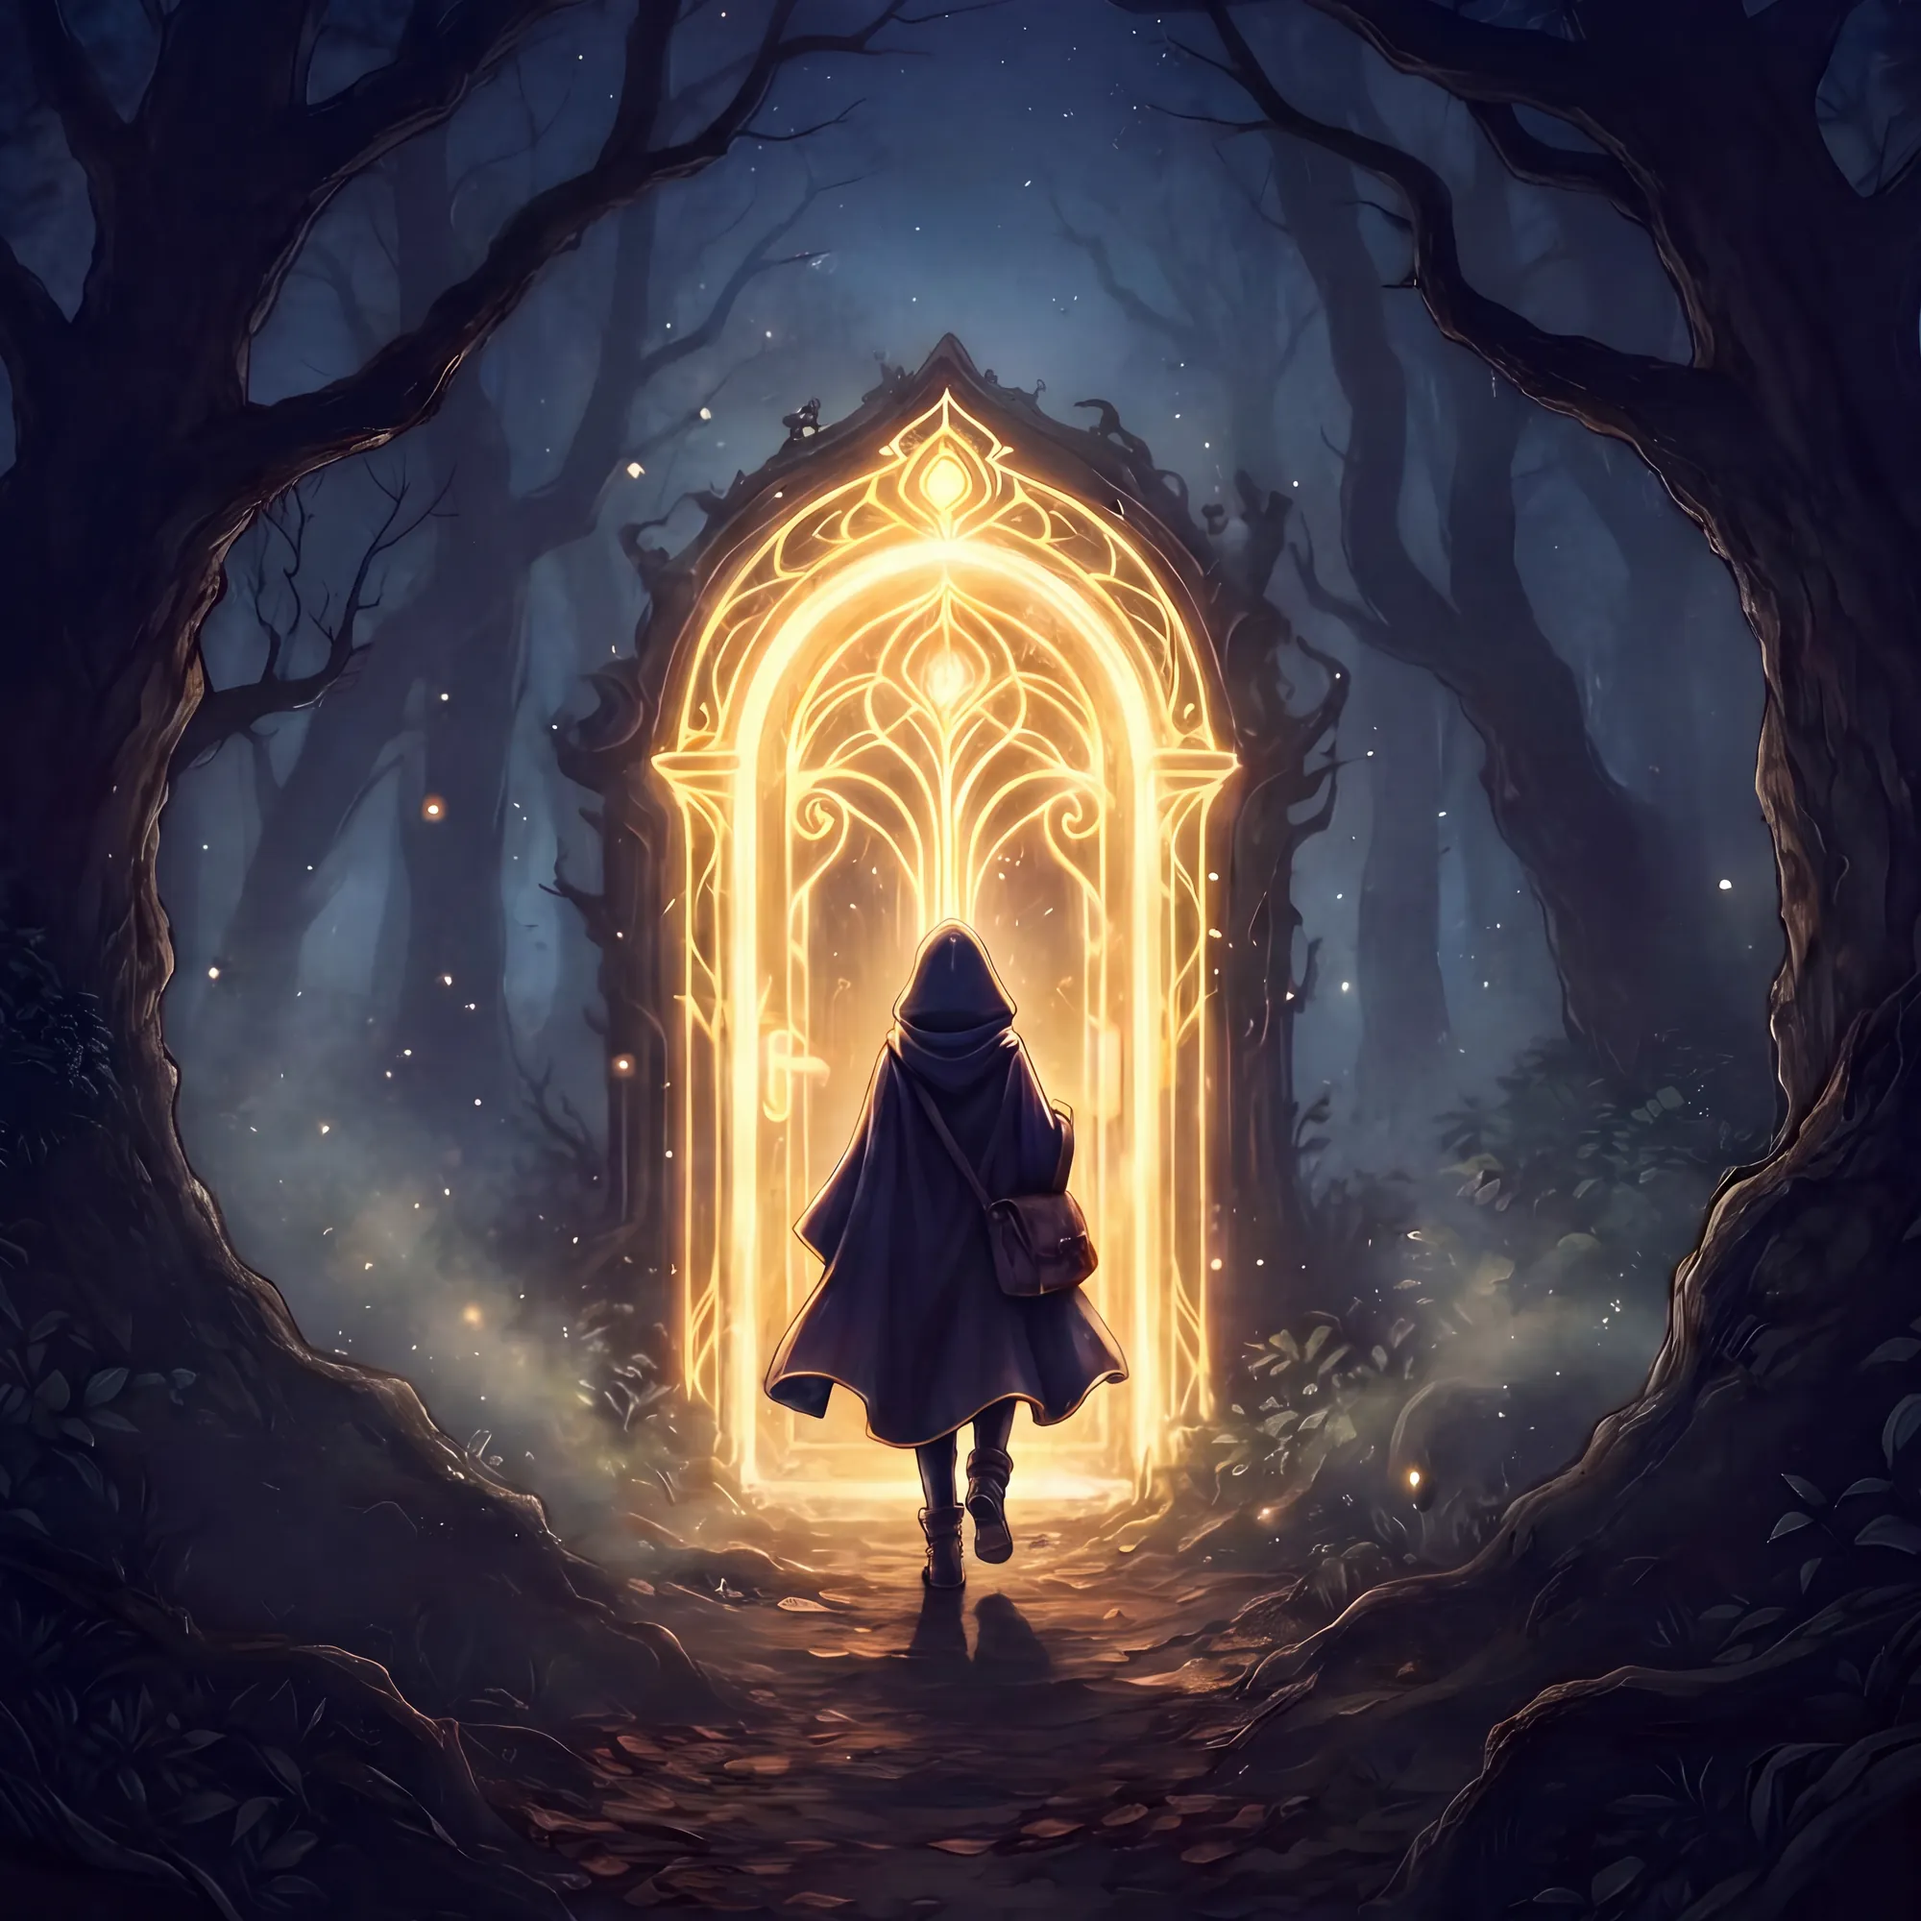
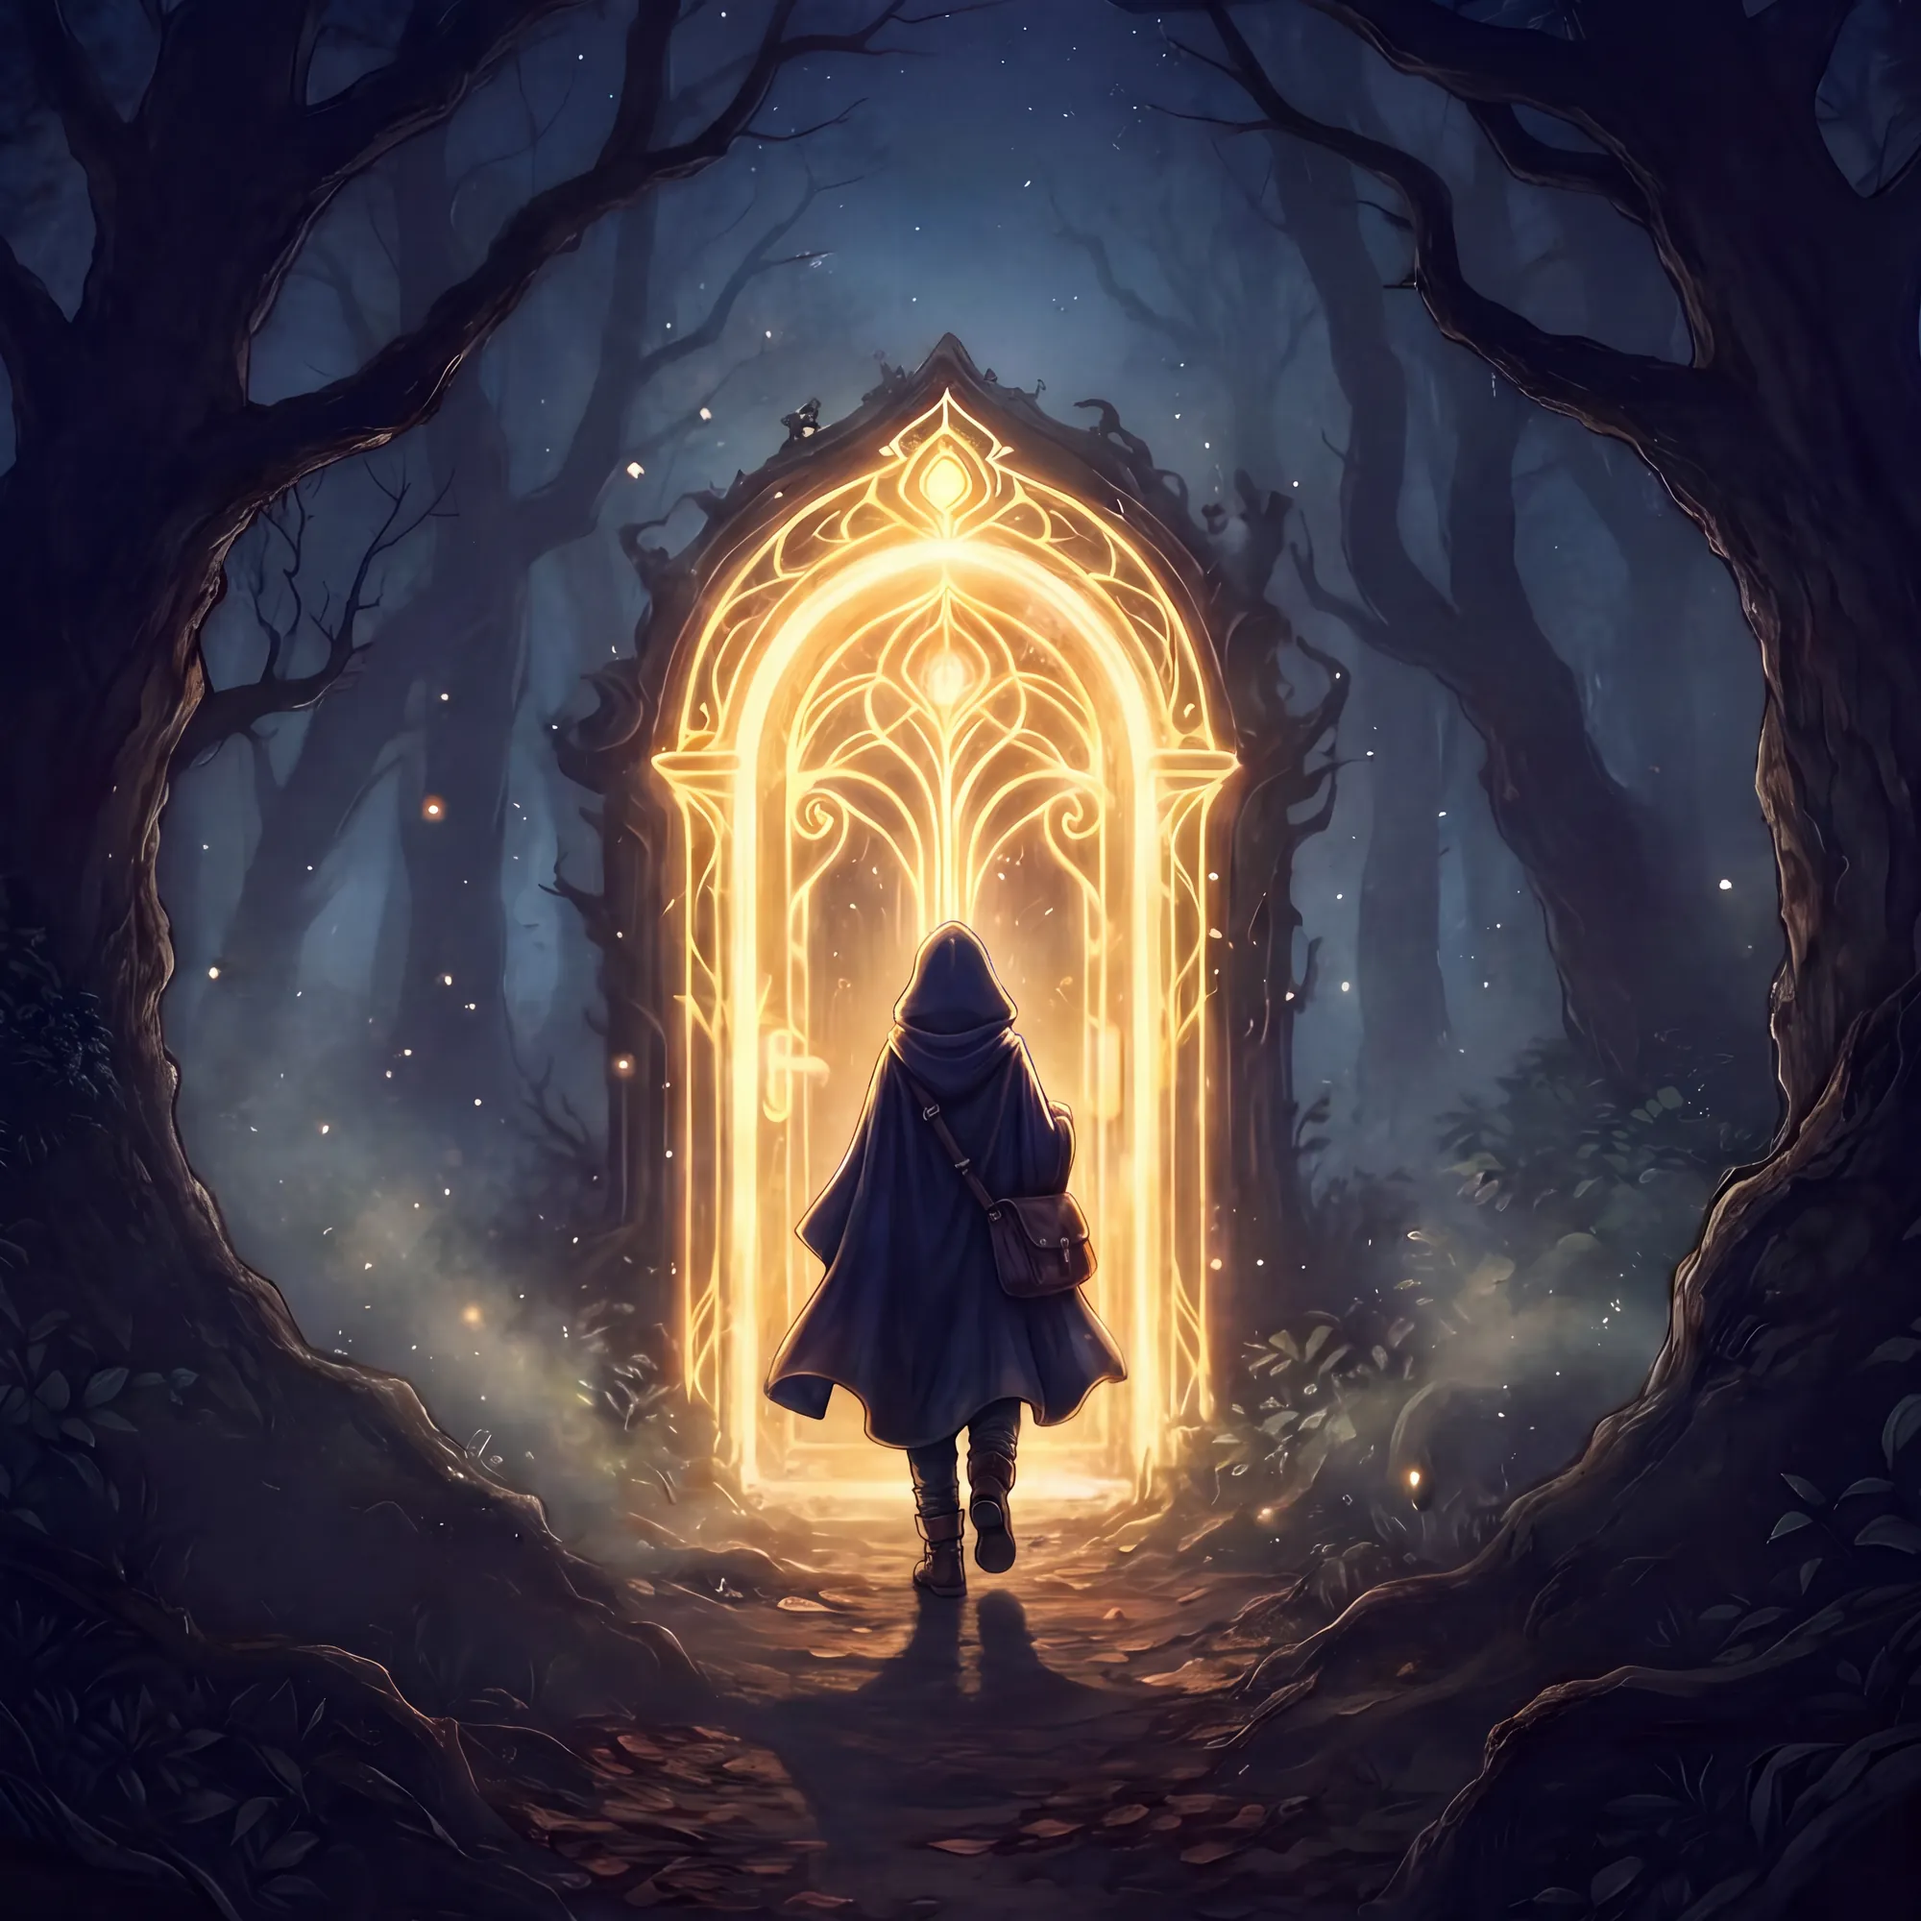
Use Nano Banana 2.1's traveller for the gate
Miki picked the traveller step painted by Nano Banana 2.1 over Gemini 3 Pro Image's, for its
better drawn satchel, boots and robe. The site serves it at 2000 px (154 KB), the link previews
are redrawn, and scripts/repaint.py records the model.

Claude-Session: https://claude.ai/code/session_013H8x9KALpP3M9dFJdQZhvw

diff --git a/scripts/repaint.py b/scripts/repaint.py
@@ -3,13 +3,14 @@ with it (scripts/prepare_images.py, gate.png), in two steps after scripts/upscal
 
     python3 scripts/repaint.py gate-x4.png out --variant faithful --model gemini-3-pro-image
     python3 scripts/repaint.py out/faithful-gemini-3-pro-image.png out --variant traveller \\
-        --model gemini-3-pro-image
+        --model gemini-nano-banana-2.1
 
 - gate-x4.png is the Real-ESRGAN upscale of the app icon's painting (scripts/upscale.py). The
   faithful step paints it again at 4096 px with nothing moved, which cleans up the upscale's
-  smudges; the traveller step then draws the cloaked traveller with more care (a gold rim of
-  light, robe folds, the satchel, boots) and leaves the rest of the scene alone. The last
-  picture is gate.png.
+  smudges; the traveller step then draws the cloaked traveller with more care (robe folds, a
+  buckled satchel, cuffed boots, a rim of light) and leaves the rest of the scene alone. Its
+  picture, out/traveller-gemini-nano-banana-2.1.png, is gate.png: Miki picked it over Gemini 3
+  Pro Image's for the traveller's detail.
 - The reference goes to the model as a 2048 px JPEG. Gemini paints a new picture each time, so a
   second run gives a close cousin, not the same file.
 
